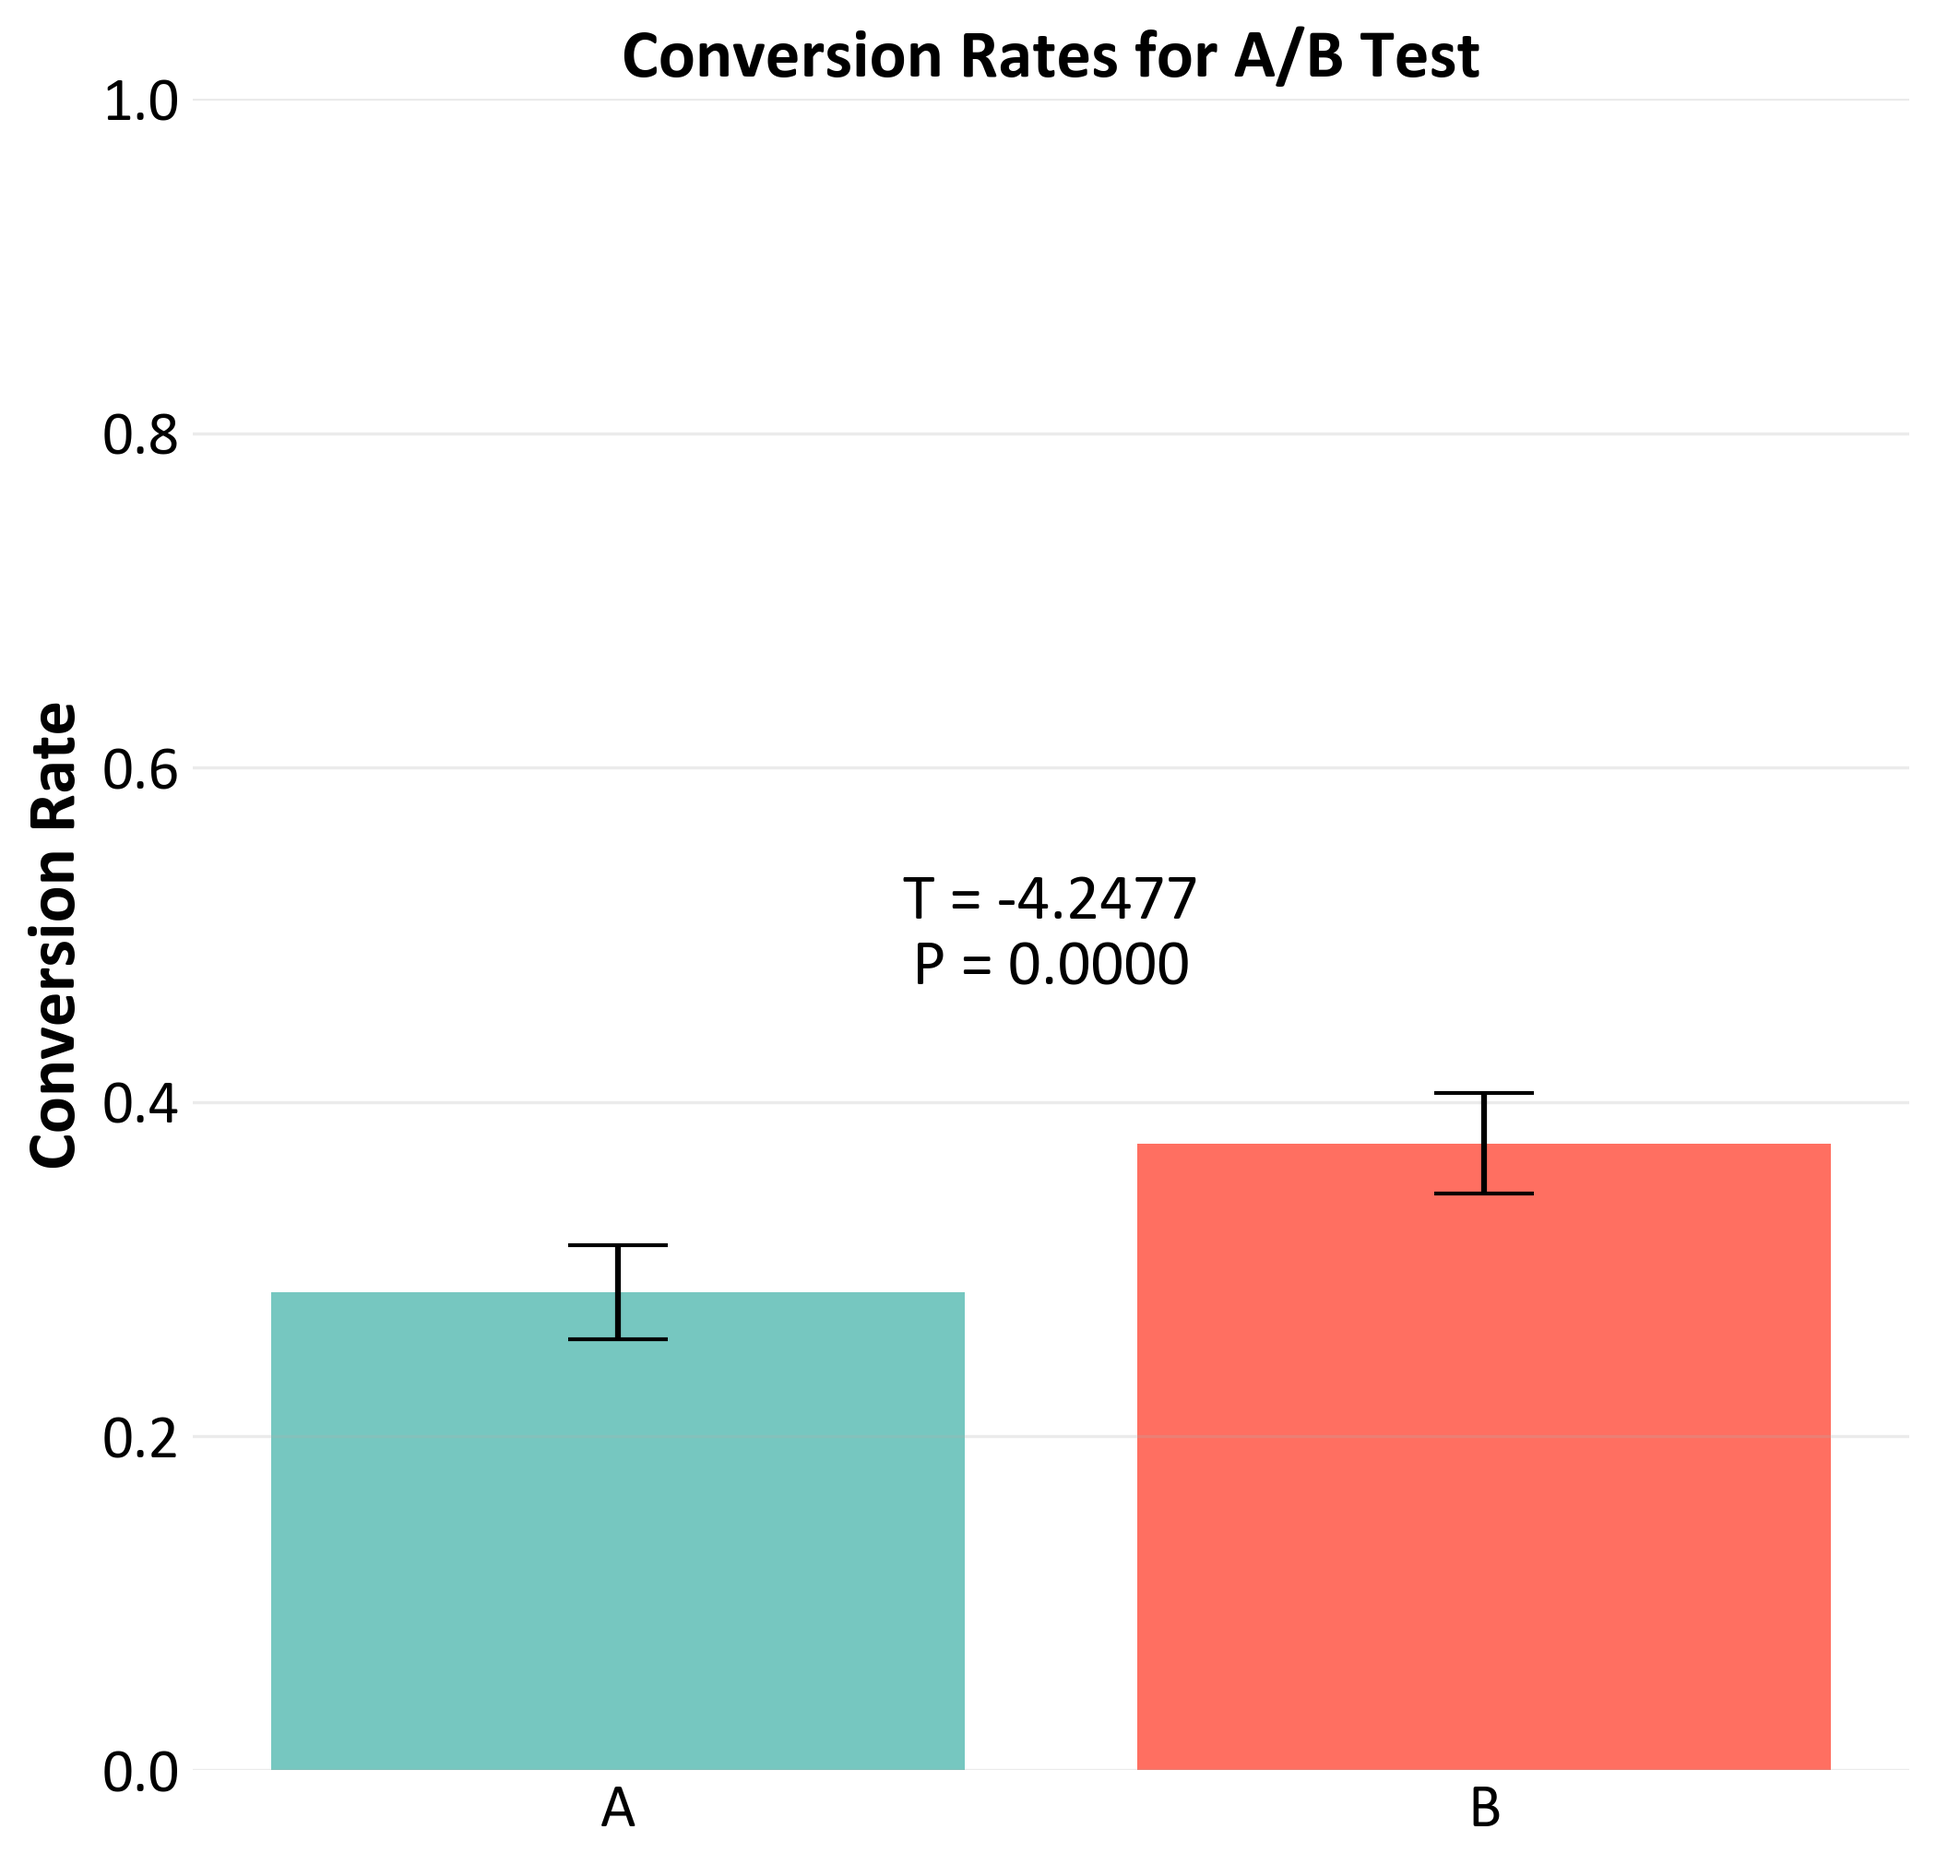
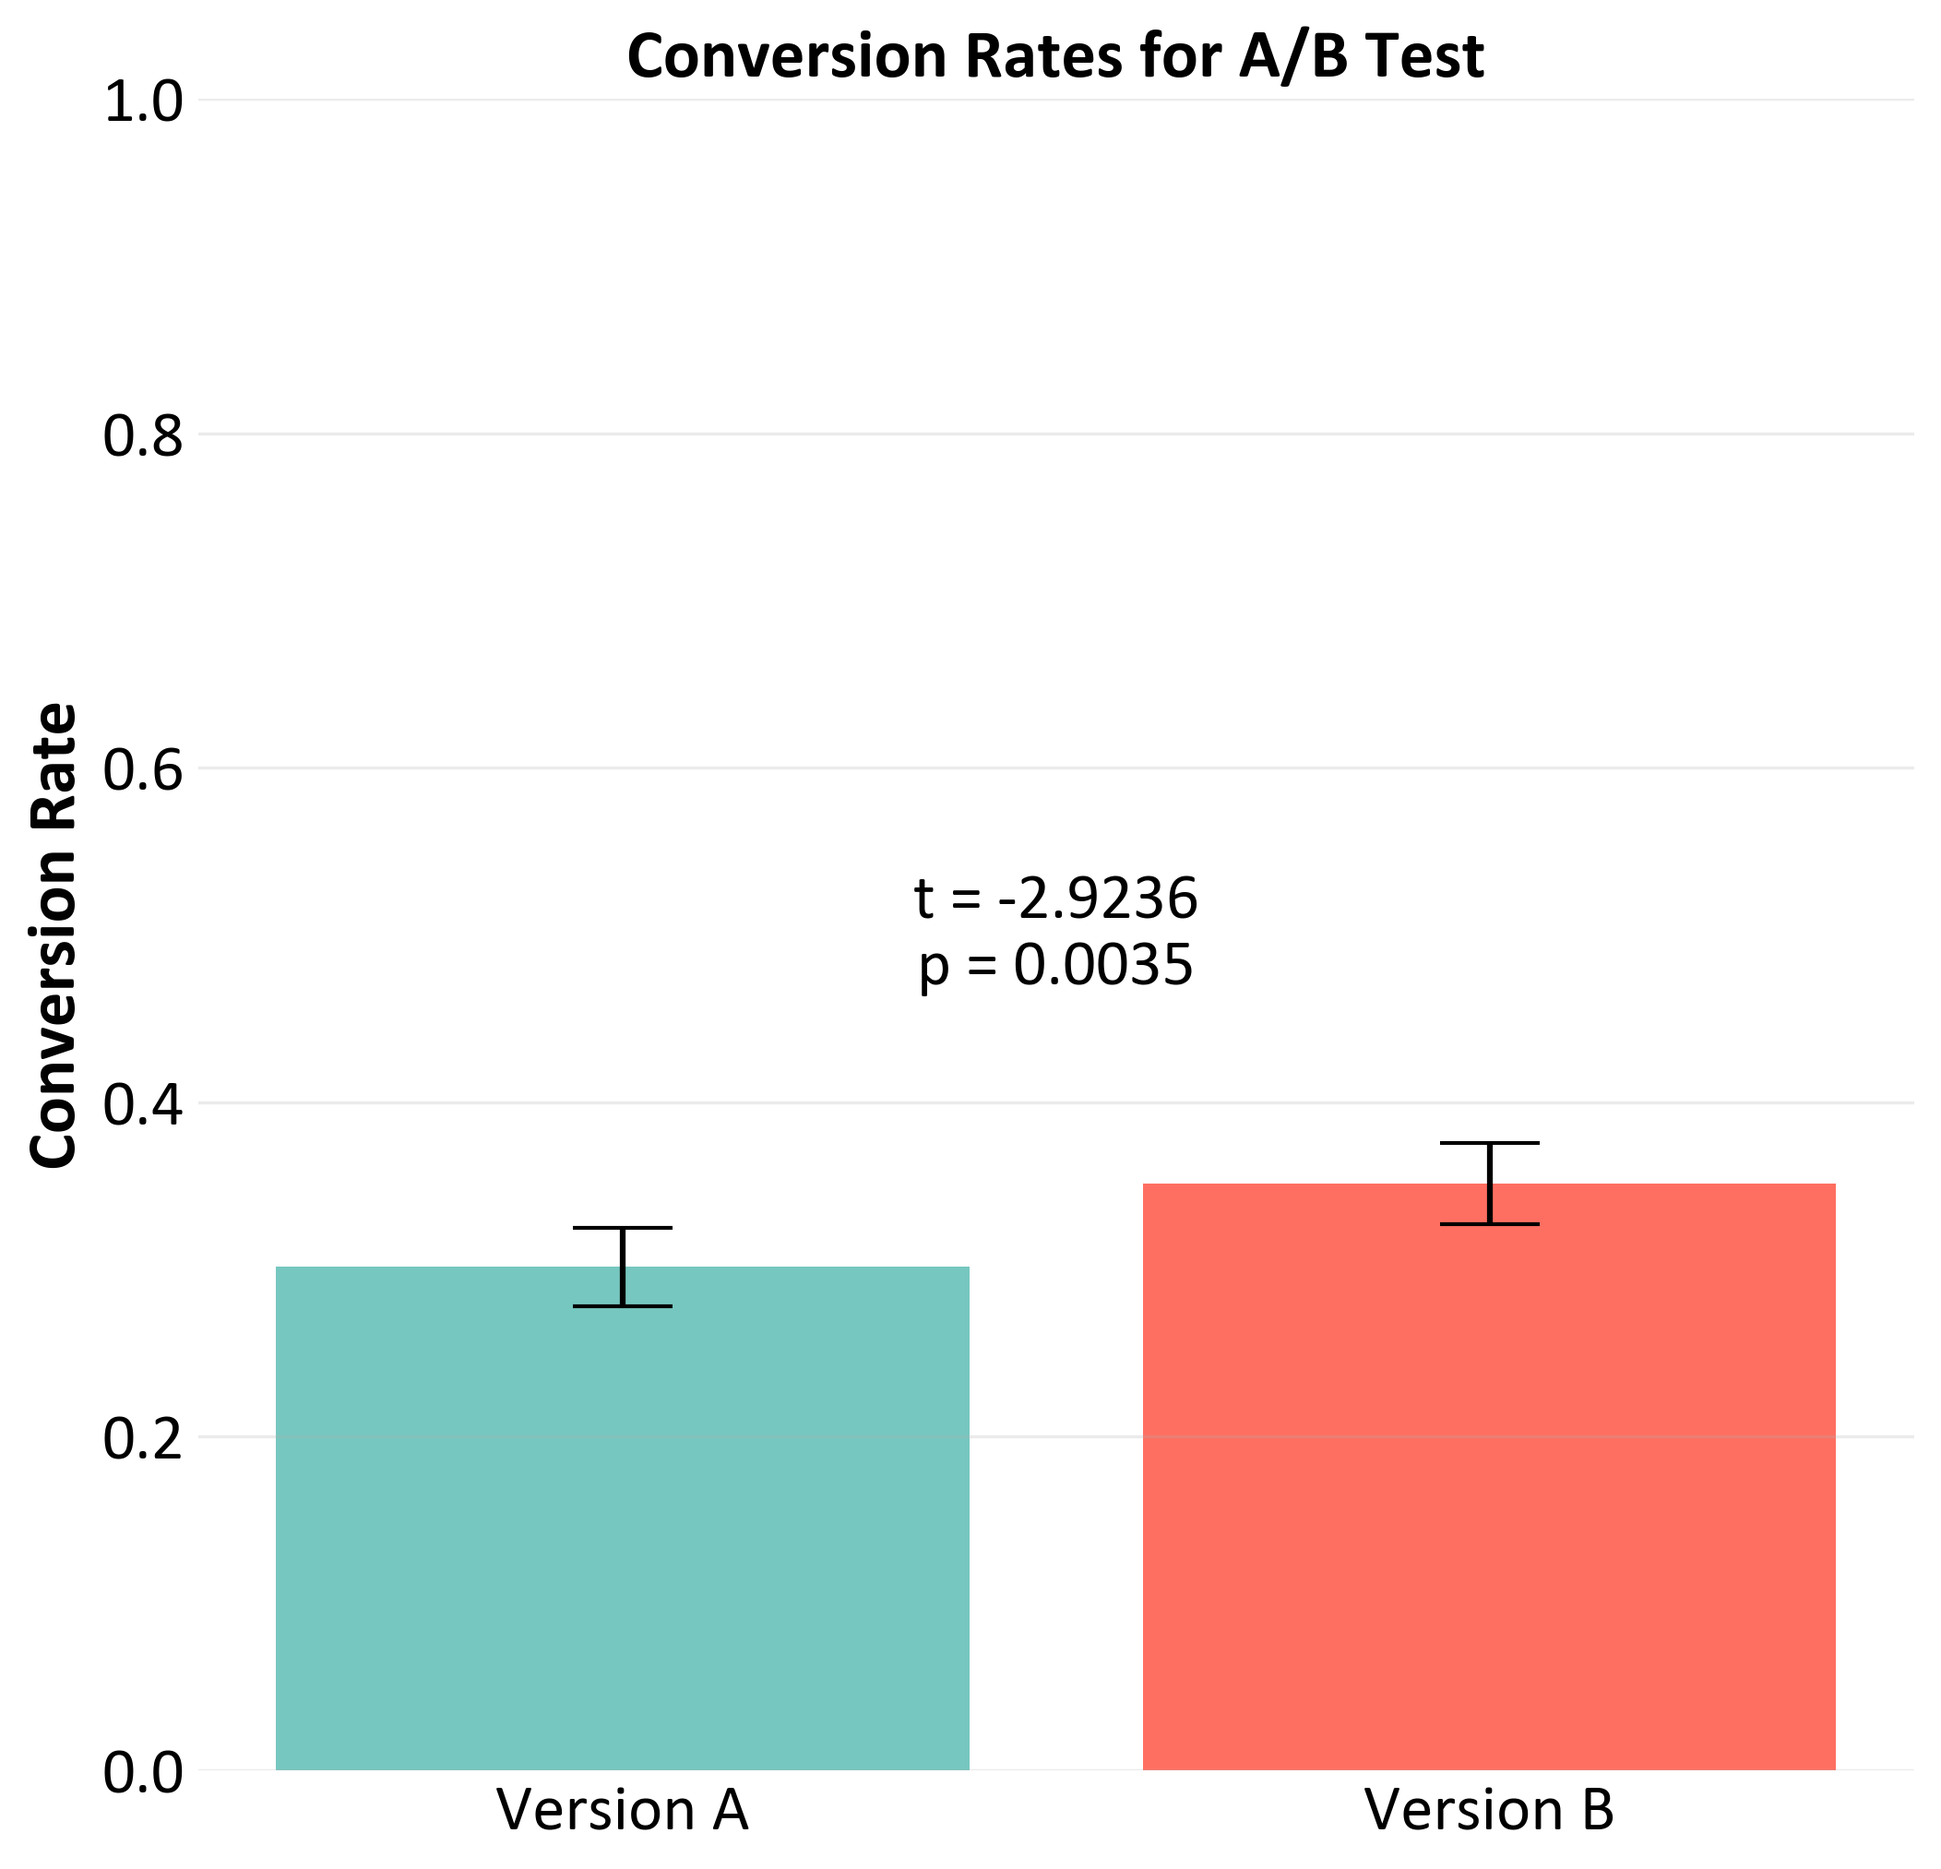
Add files via upload

diff --git a/AB_Test_Simulation_with_Power_Analysis.py b/AB_Test_Simulation_with_Power_Analysis.py
@@ -20,7 +20,7 @@ import matplotlib.pyplot as plt
 np.random.seed(123)
 
 # Define the sample size for A/B test
-sample_size = 1000
+sample_size = 1500
 
 # Simulating conversion rates for two versions (A and B) of the app feature
 # Version A has a conversion rate of 30%
@@ -101,7 +101,7 @@ error_B = (ci_B[1] - ci_B[0]) / 2  # Half of the CI range
 plt.figure(figsize=(8, 8))
 fs=18
 plt.rcParams['font.family'] = 'Calibri'
-plt.bar(['A', 'B'], 
+plt.bar(['Version A', 'Version B'], 
         [conversion_rate_A_observed, conversion_rate_B_observed], 
         yerr=[error_A, error_B],  # Add error bars
         color=['#76c7c0', '#ff6f61'],
@@ -109,10 +109,10 @@ plt.bar(['A', 'B'],
 plt.title('Conversion Rates for A/B Test', fontweight='bold', fontsize=fs)
 plt.ylabel('Conversion Rate', fontweight='bold', fontsize=fs)
 plt.ylim(0, 1)
-plt.xticks(fontsize=fs-2)
-plt.yticks(fontsize=fs-2)
+plt.xticks(fontsize=fs-1)
+plt.yticks(fontsize=fs-1)
 plt.grid(axis='y', alpha=0.25)
-t_test_text = f"T = {t_stat:.4f}\nP = {p_value:.4f}"
+t_test_text = f"t = {t_stat:.4f}\np = {p_value:.4f}"
 # Display the t-test result in the top-right corner
 plt.text(0.5, 0.5, t_test_text, fontsize=fs-1, verticalalignment='center', horizontalalignment='center', transform=plt.gca().transAxes)
 # Remove axes borders
